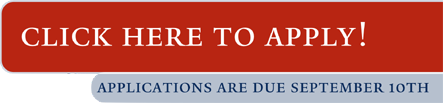
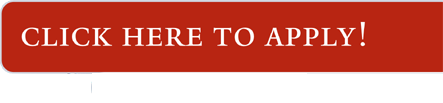
fixed application image for front page

Changed region(s): [[0.2054, 0.699, 1.0, 1.0]]

diff --git a/index.html b/index.html
@@ -43,8 +43,8 @@
       <div class="container">
         <div class="row">
         	<div class="col-lg-12 spacer col-md-0"></div>
- <!--            <div class="apply_block">
-                <a href="http://goo.gl/forms/hM8am5F0X7" target="new" class="apply_here_link"></a>
+            <!--<div class="apply_block">
+                <a href="#" target="new" class="apply_here_link"></a>
             </div>  -->
           <div class="down-arrow"><a id="down-arrow" href="#about" class="page-scroll fa fa-sort-down fa-3x down-arrow-margin"></a></div>
         </div>
